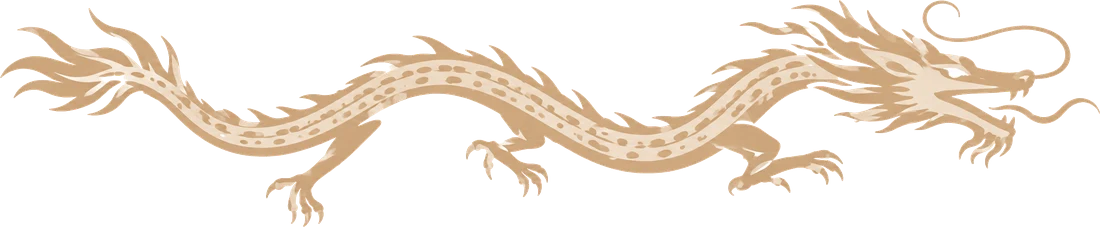
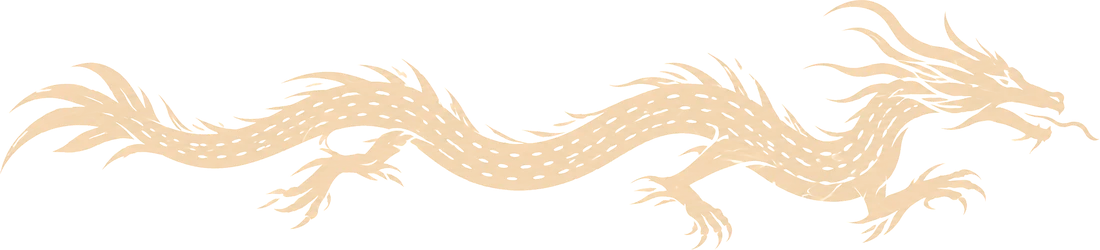
Новый дракон; выплывает с той стороны, куда уплыл
Claude-Session: https://claude.ai/code/session_014psmEQcGbUgNjXWpQgP92z

diff --git a/src/Dragon.tsx b/src/Dragon.tsx
@@ -16,14 +16,14 @@ export function Dragon() {
     resize(); addEventListener('resize', resize);
 
     const size = () => Math.min(380, Math.max(240, W * 0.55)); // длина дракона в пикселях экрана
-    // Дракон не разворачивается на месте: он проплывает экран насквозь, исчезает за краем
-    // и через пару секунд появляется с другой стороны на другой высоте.
+    // Дракон не разворачивается на месте: он проплывает экран насквозь, исчезает за краем,
+    // «разворачивается» за экраном и через пару секунд выплывает оттуда же, на другой высоте.
     let x = 0, y = 0, th = 0, dir = 1, speed = 40, t = 0, wait = 0, base = 0;
     let targetSpeed = 40, nextChange = 0, wob = Math.random() * 10;
     const spawn = (first = false) => {
       const L = size();
-      dir = Math.random() < 0.5 ? 1 : -1;
-      x = first ? W * (dir > 0 ? 0.25 : 0.75) : dir > 0 ? -L * 0.6 : W + L * 0.6;
+      if (first) { dir = Math.random() < 0.5 ? 1 : -1; x = W * (dir > 0 ? 0.25 : 0.75); }
+      else { dir = -dir; x = dir > 0 ? -L * 0.6 : W + L * 0.6; } // возвращается с той стороны, куда уплыл
       base = 140 + Math.random() * Math.max(10, H - 300); y = base;
       th = dir > 0 ? 0 : Math.PI; speed = targetSpeed = 30 + Math.random() * 25;
     };
